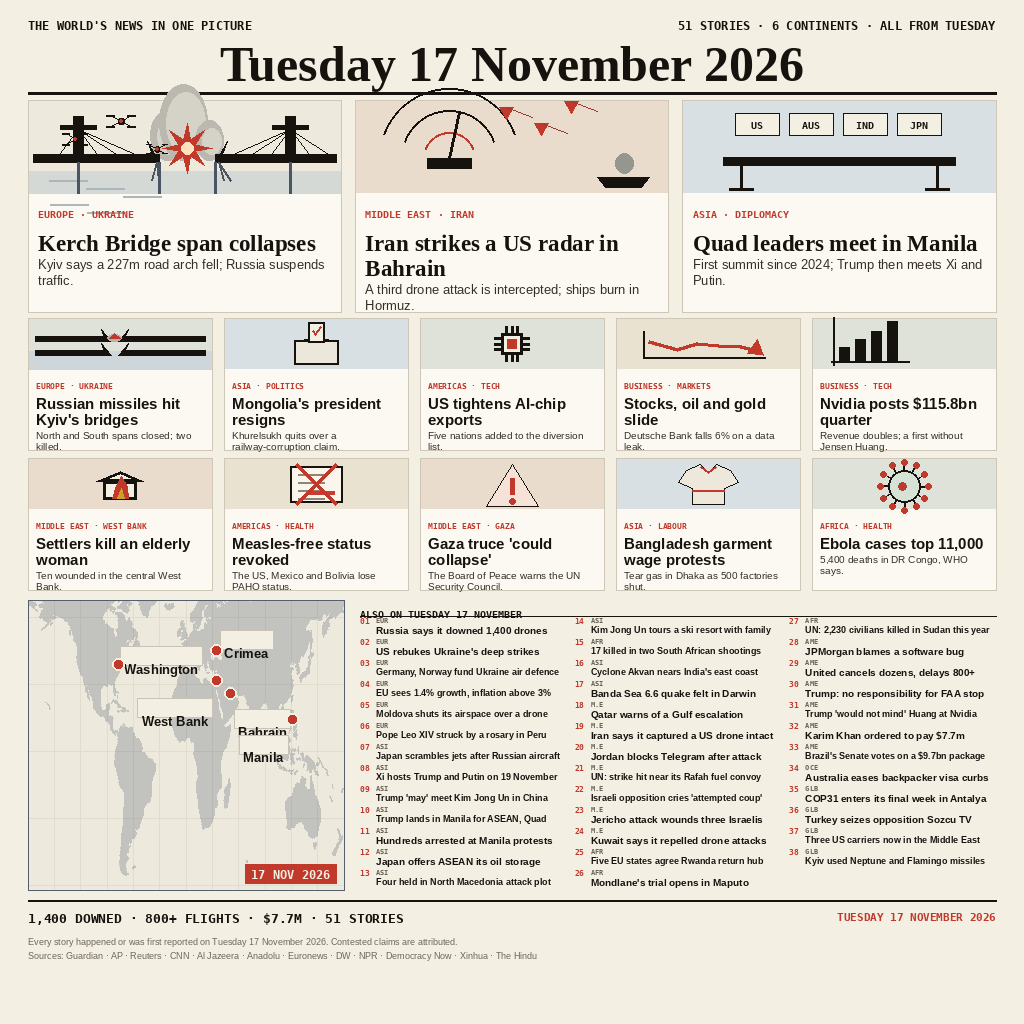
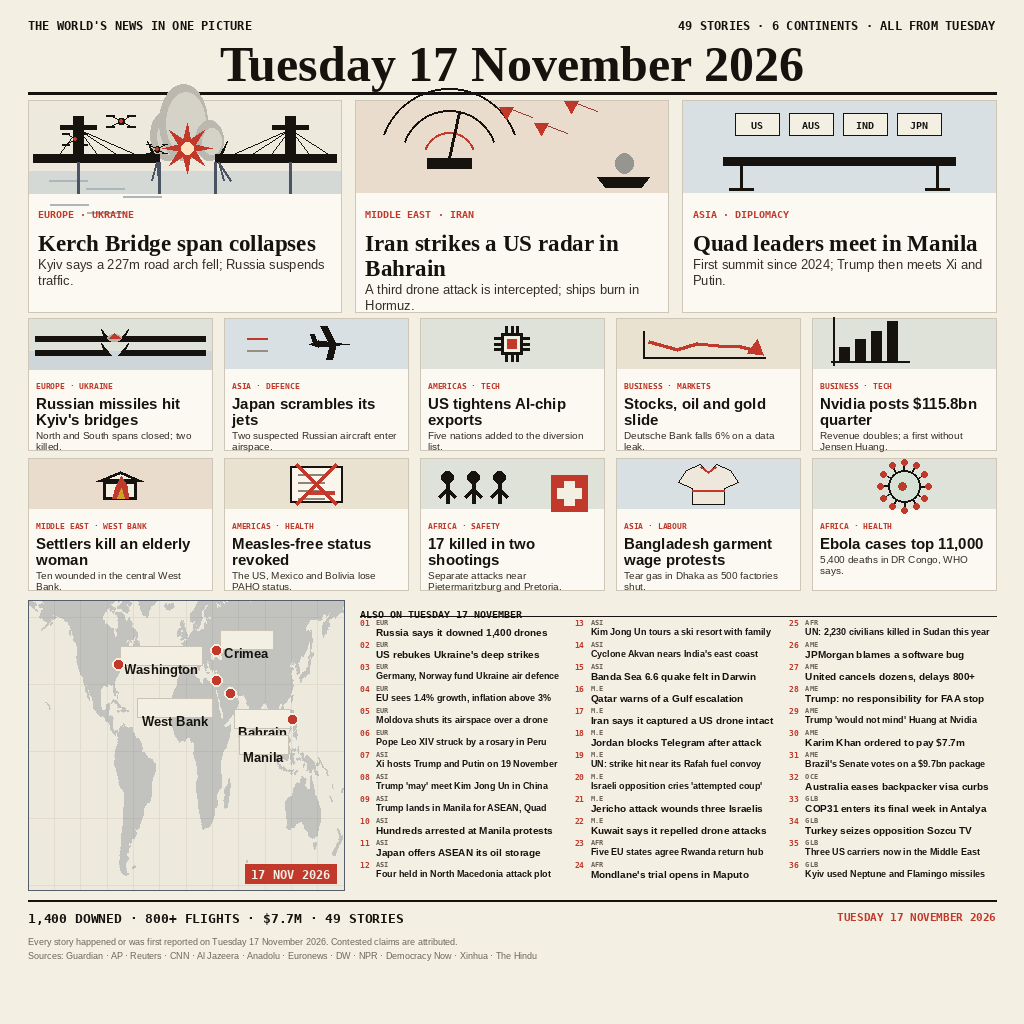
Restore the tree of the submitted commit (entry b5a8cc5)
The later 51-story variant could not be entered: the account's entry limit
for this competition is reached. The entry stands at commit b5a8cc5.

Changed region(s): [[0.3438, 0.4375, 0.9688, 0.875], [0.2188, 0.3125, 0.375, 0.4375]]

diff --git a/dense2.py b/dense2.py
@@ -128,30 +128,13 @@ def ill_cert(d, x, y, w, h):
     d.line([cx + 20, cy - 20, cx - 20, cy + 20], fill=RED, width=5)
 
 
-
-def ill_ballot(d, x, y, w, h):
-    cx, cy = x + w / 2, y + h / 2
-    d.rectangle([cx - 22, cy - 4, cx + 22, cy + 20], fill=(236, 231, 219), outline=INK, width=2)
-    d.line([cx - 12, cy - 4, cx + 12, cy - 4], fill=INK, width=3)
-    d.rectangle([cx - 8, cy - 22, cx + 8, cy - 2], fill=PAPER, outline=INK, width=2)
-    d.line([cx - 4, cy - 14, cx - 1, cy - 10], fill=RED, width=2)
-    d.line([cx - 1, cy - 10, cx + 5, cy - 18], fill=RED, width=2)
-
-
-def ill_warning(d, x, y, w, h):
-    cx, cy = x + w / 2, y + h / 2 + 4
-    d.polygon([(cx, cy - 24), (cx + 26, cy + 18), (cx - 26, cy + 18)], fill=(246, 226, 214), outline=INK)
-    d.line([cx, cy - 10, cx, cy + 6], fill=RED, width=5)
-    d.ellipse([cx - 3, cy + 10, cx + 3, cy + 16], fill=RED)
-
-
 def build(polys, out):
     img = Image.new("RGBA", (W, H), PAPER + (255,))
     d = ImageDraw.Draw(img)
 
     kick = "THE WORLD'S NEWS IN ONE PICTURE"
     d.text((M, 18), kick, font=R.mono(12), fill=INK)
-    right = "51 STORIES · 6 CONTINENTS · ALL FROM TUESDAY"
+    right = "49 STORIES · 6 CONTINENTS · ALL FROM TUESDAY"
     d.text((W - M - R.tw(d, right, R.mono(12)), 18), right, font=R.mono(12), fill=INK)
 
     date = "Tuesday 17 November 2026"
@@ -181,7 +164,7 @@ def build(polys, out):
     rows = [
         [
             ("EUROPE · UKRAINE", "Russian missiles hit Kyiv's bridges", "North and South spans closed; two killed.", "war", ill_kyiv),
-            ("ASIA · POLITICS", "Mongolia's president resigns", "Khurelsukh quits over a railway-corruption claim.", "asia", ill_ballot),
+            ("ASIA · DEFENCE", "Japan scrambles its jets", "Two suspected Russian aircraft enter airspace.", "asia", D.ill_jet),
             ("AMERICAS · TECH", "US tightens AI-chip exports", "Five nations added to the diversion list.", "tech", D.ill_chip),
             ("BUSINESS · MARKETS", "Stocks, oil and gold slide", "Deutsche Bank falls 6% on a data leak.", "money", D.ill_chart),
             ("BUSINESS · TECH", "Nvidia posts $115.8bn quarter", "Revenue doubles; a first without Jensen Huang.", "tech", ill_bars),
@@ -189,7 +172,7 @@ def build(polys, out):
         [
             ("MIDDLE EAST · WEST BANK", "Settlers kill an elderly woman", "Ten wounded in the central West Bank.", "mideast", D.ill_house),
             ("AMERICAS · HEALTH", "Measles-free status revoked", "The US, Mexico and Bolivia lose PAHO status.", "money", ill_cert),
-            ("MIDDLE EAST · GAZA", "Gaza truce 'could collapse'", "The Board of Peace warns the UN Security Council.", "mideast", ill_warning),
+            ("AFRICA · SAFETY", "17 killed in two shootings", "Separate attacks near Pietermaritzburg and Pretoria.", "war", ill_shooting),
             ("ASIA · LABOUR", "Bangladesh garment wage protests", "Tear gas in Dhaka as 500 factories shut.", "asia", ill_garment),
             ("AFRICA · HEALTH", "Ebola cases top 11,000", "5,400 deaths in DR Congo, WHO says.", "war", ill_virus),
         ],
@@ -220,7 +203,6 @@ def build(polys, out):
         ("EUR", "EU sees 1.4% growth, inflation above 3%"),
         ("EUR", "Moldova shuts its airspace over a drone"),
         ("EUR", "Pope Leo XIV struck by a rosary in Peru"),
-        ("ASI", "Japan scrambles jets after Russian aircraft"),
         ("ASI", "Xi hosts Trump and Putin on 19 November"),
         ("ASI", "Trump 'may' meet Kim Jong Un in China"),
         ("ASI", "Trump lands in Manila for ASEAN, Quad"),
@@ -228,7 +210,6 @@ def build(polys, out):
         ("ASI", "Japan offers ASEAN its oil storage"),
         ("ASI", "Four held in North Macedonia attack plot"),
         ("ASI", "Kim Jong Un tours a ski resort with family"),
-        ("AFR", "17 killed in two South African shootings"),
         ("ASI", "Cyclone Akvan nears India's east coast"),
         ("ASI", "Banda Sea 6.6 quake felt in Darwin"),
         ("M.E", "Qatar warns of a Gulf escalation"),
@@ -255,18 +236,18 @@ def build(polys, out):
     ]
     f_reg = R.mono(7)
     col_w = (W - M - lx - 16) / 3
-    per_col = 13
+    per_col = 12
     for i, (region, text) in enumerate(items):
         col, row = divmod(i, per_col)
         x = lx + col * (col_w + 8)
-        yy = my0 + 16 + row * 21
+        yy = my0 + 18 + row * 22
         d.text((x, yy), "%02d" % (i + 1), font=R.mono(8), fill=RED)
         d.text((x + 16, yy), region, font=f_reg, fill=MUTED)
         D.fit_one(d, text, 10, col_w - 20, INK, x + 16, yy + 8)
 
     # footer
     rule(d, M, 900, W - M, INK, 2)
-    d.text((M, 910), "1,400 DOWNED · 800+ FLIGHTS · $7.7M · 51 STORIES", font=R.mono(13), fill=INK)
+    d.text((M, 910), "1,400 DOWNED · 800+ FLIGHTS · $7.7M · 49 STORIES", font=R.mono(13), fill=INK)
     d.text((W - M - R.tw(d, "TUESDAY 17 NOVEMBER 2026", R.mono(11)), 910),
            "TUESDAY 17 NOVEMBER 2026", font=R.mono(11), fill=RED)
     d.text((M, 936), "Every story happened or was first reported on Tuesday 17 November 2026. Contested claims are attributed.",

diff --git a/README.md b/README.md
@@ -4,7 +4,7 @@
 [![rank](https://make.fun/badge/news-image-20261117/delisto75max/world-today-20261117/rank.svg)](https://make.fun/bounty/news-image-20261117/leaderboard?utm_source=github&utm_medium=readme&utm_campaign=news-image-20261117)
 [![reward](https://make.fun/badge/news-image-20261117/delisto75max/world-today-20261117/reward.svg)](https://make.fun/bounty/news-image-20261117?utm_source=github&utm_medium=readme&utm_campaign=news-image-20261117)
 
-A one-page newspaper front page that sums up the world news of **Tuesday 17 November 2026**: the date as the page's headline, three illustrated leads (the Kerch Bridge span collapse, Iran's drone strike on a US radar in Bahrain, the Quad summit in Manila), ten more illustrated stories across Europe, Asia, the Middle East, Africa and the Americas, a world map with five labelled markers, and thirty-eight one-line briefs from every region — fifty-one stories in all, across six continents.
+A one-page newspaper front page that sums up the world news of **Tuesday 17 November 2026**: the date as the page's headline, three illustrated leads (the Kerch Bridge span collapse, Iran's drone strike on a US radar in Bahrain, the Quad summit in Manila), ten more illustrated stories across Europe, Asia, the Middle East, Africa and the Americas, a world map with five labelled markers, and thirty-six one-line briefs from every region — forty-nine stories in all, across six continents.
 
 Everything in the image is drawn by `render.py` with Pillow: flat vector shapes only, no photographs, no outlet logos, no third-party artwork. The world map uses Natural Earth 110m land (public domain), committed here as GeoJSON.
 
@@ -28,7 +28,7 @@ python3 render.py entry.png
 - `0–92` kicker line and the date headline `Tuesday 17 November 2026`
 - `100–312` three illustrated leads, each with a kicker, headline and deck
 - `318–590` two rows of five illustrated second stories
-- `600–890` world map with five labelled markers, and thirty-eight numbered briefs in three columns
+- `600–890` world map with five labelled markers, and thirty-six numbered briefs in three columns
 - `900–1024` figures, attribution, sources and the date again
 
 Cards keep their own illustration block; the briefs stay on one line each. The page is built so the date, the three leads and every card headline read at 300 px across.
